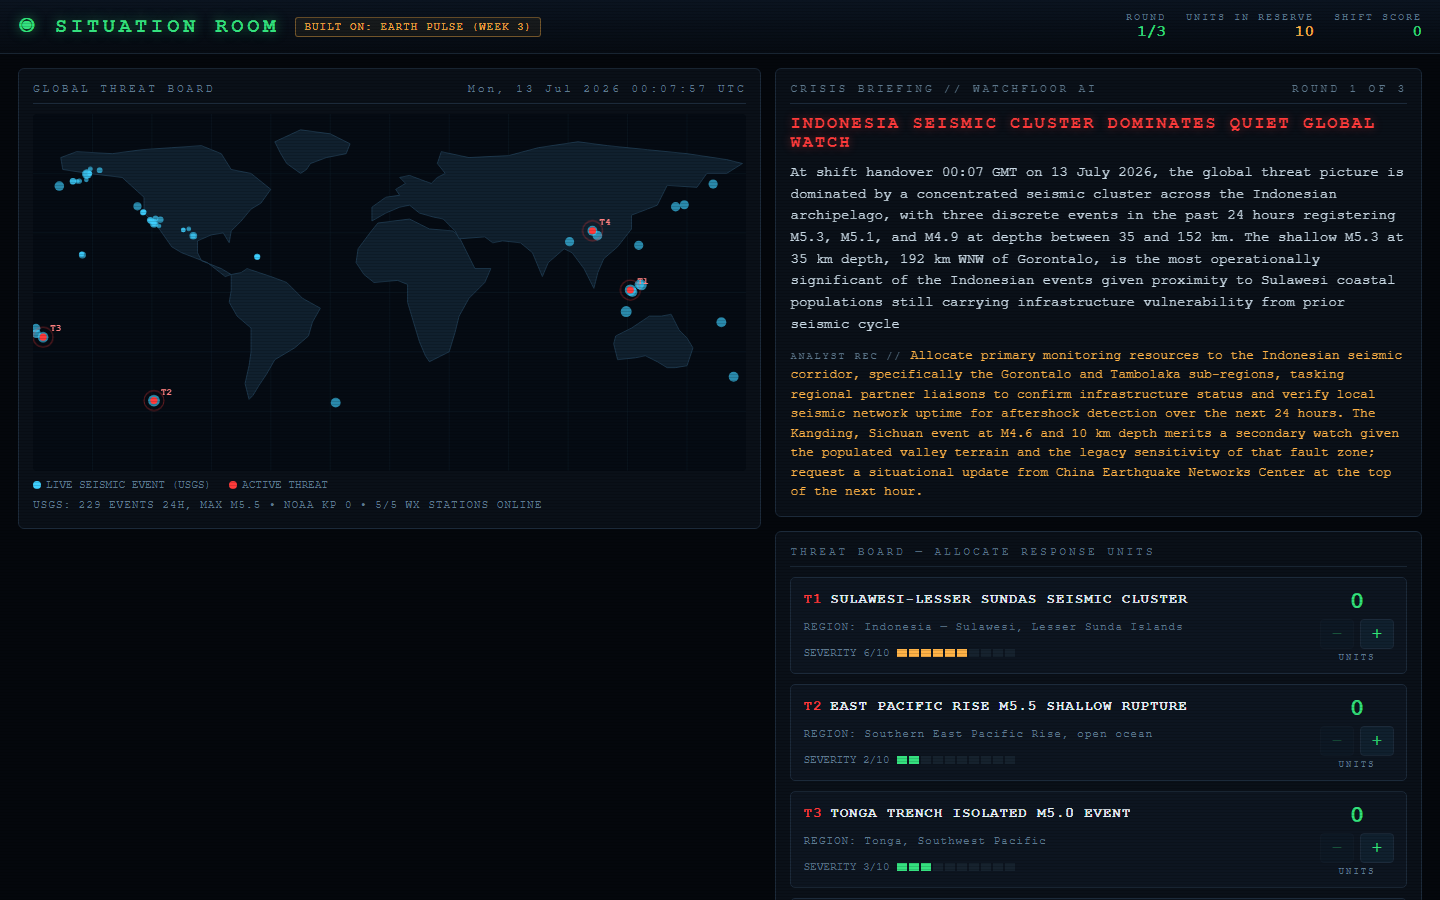
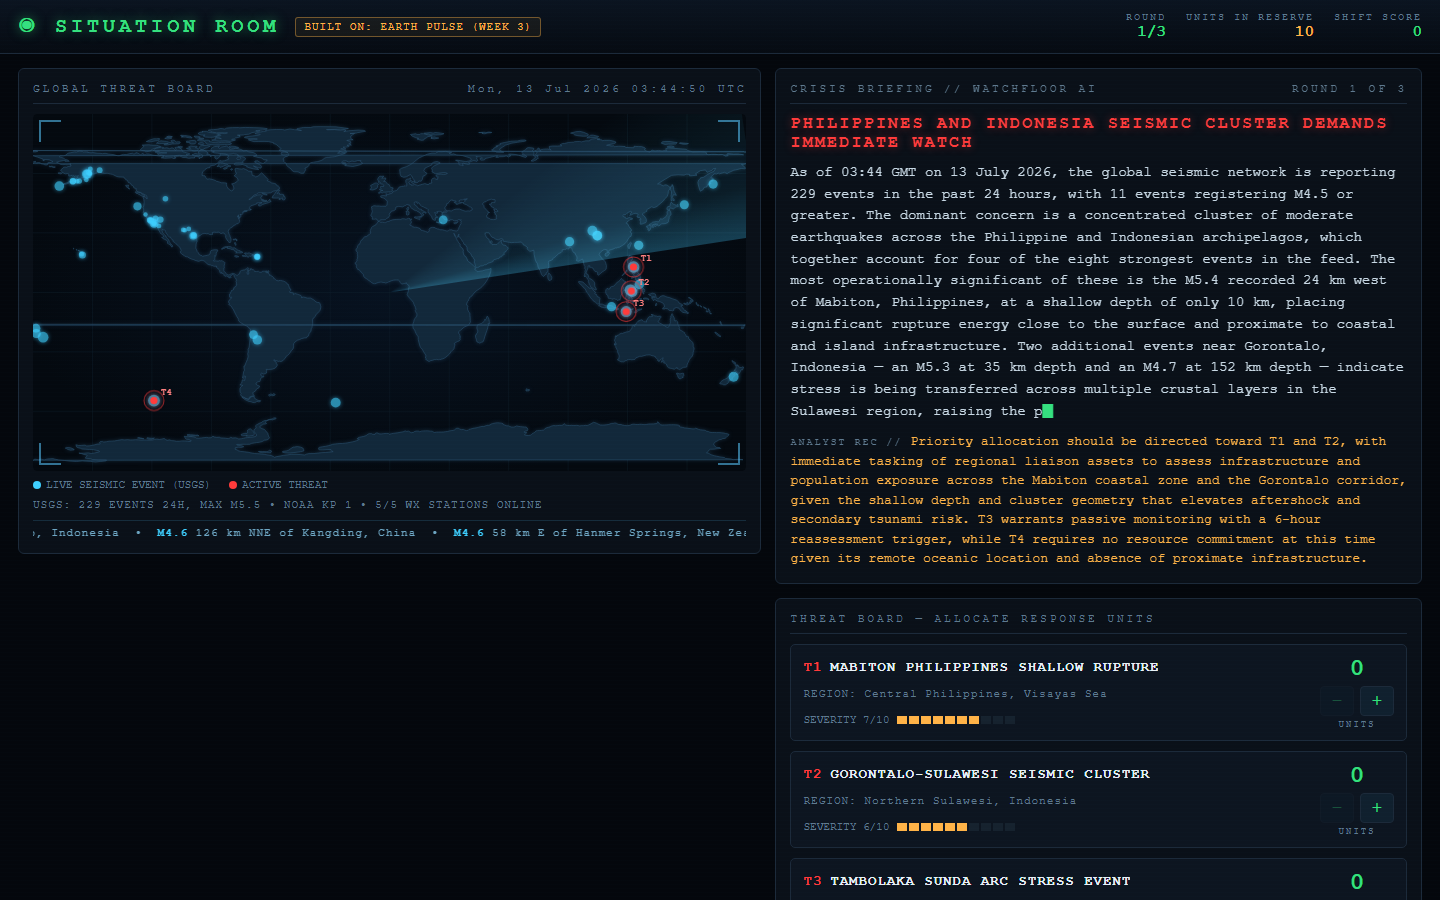
situation-room: war-room glow-up — real Natural Earth coastlines (inline TopoJSON decoder), radar sweep, HUD brackets, scanlines, glowing markers, live USGS wire ticker

diff --git a/projects/week-04-built-on-yesterday/demo-06-situation-room/index.html b/projects/week-04-built-on-yesterday/demo-06-situation-room/index.html
@@ -81,17 +81,54 @@
 
   /* ---------- map ---------- */
   #map-wrap { position: sticky; top: 14px; align-self: start; }
-  #worldmap { width: 100%; height: auto; display: block; background: #050b13; border-radius: 4px; }
-  .land { fill: #10202e; stroke: #24445c; stroke-width: 1; }
+  #map-stage { position: relative; overflow: hidden; border-radius: 4px; }
+  #worldmap { width: 100%; height: auto; display: block; background: radial-gradient(ellipse at center, #071220 0%, #04090f 75%); border-radius: 4px; }
+  .land { fill: #12283a; stroke: #2e5876; stroke-width: 0.7; filter: drop-shadow(0 0 3px rgba(70,140,190,0.25)); }
+
+  /* Rotating radar sweep */
+  #radar-sweep {
+    position: absolute; inset: -55%;
+    background: conic-gradient(from 0deg, transparent 0deg, transparent 330deg, rgba(64,200,255,0.10) 352deg, rgba(64,200,255,0.28) 360deg);
+    animation: sweep 9s linear infinite;
+    pointer-events: none;
+    mix-blend-mode: screen;
+  }
+  @keyframes sweep { to { transform: rotate(360deg); } }
+
+  /* HUD corner brackets */
+  .hud-corner { position: absolute; width: 22px; height: 22px; border: 2px solid rgba(90,200,255,0.55); pointer-events: none; }
+  .hud-corner.tl { top: 6px; left: 6px; border-right: none; border-bottom: none; }
+  .hud-corner.tr { top: 6px; right: 6px; border-left: none; border-bottom: none; }
+  .hud-corner.bl { bottom: 6px; left: 6px; border-right: none; border-top: none; }
+  .hud-corner.br { bottom: 6px; right: 6px; border-left: none; border-top: none; }
+
+  /* CRT scanlines over the whole floor */
+  body::after {
+    content: '';
+    position: fixed; inset: 0;
+    background: repeating-linear-gradient(0deg, transparent, transparent 3px, rgba(120,200,255,0.012) 3px, rgba(120,200,255,0.012) 4px);
+    pointer-events: none;
+    z-index: 999;
+  }
   .grid-line { stroke: #10202e; stroke-width: 0.6; }
-  .quake-dot { fill: var(--cyan); opacity: 0.65; }
-  .threat-marker { fill: var(--red); }
+  .quake-dot { fill: var(--cyan); opacity: 0.65; filter: drop-shadow(0 0 3px rgba(64,200,255,0.8)); }
+  .threat-marker { fill: var(--red); filter: drop-shadow(0 0 5px rgba(255,60,60,0.9)); }
   .threat-ring { fill: none; stroke: var(--red); stroke-width: 1.5; animation: ping 1.8s ease-out infinite; transform-origin: center; }
   @keyframes ping { 0% { opacity: 0.9; } 100% { opacity: 0; } }
   .threat-label { fill: #ff8080; font-size: 13px; font-family: inherit; font-weight: bold; }
   #map-legend { display: flex; gap: 18px; margin-top: 8px; font-size: 11px; color: var(--dim); }
   .leg-dot { display: inline-block; width: 8px; height: 8px; border-radius: 50%; margin-right: 5px; vertical-align: middle; }
   #feed-line { margin-top: 8px; font-size: 11px; color: var(--dim); letter-spacing: 1px; min-height: 15px; }
+
+  /* Live wire ticker: raw events scroll under the board */
+  #wire-ticker {
+    margin-top: 6px; overflow: hidden; white-space: nowrap;
+    border-top: 1px solid rgba(90,200,255,0.15);
+    padding-top: 6px; font-size: 11px; letter-spacing: 1px; color: #6fa8c5;
+  }
+  #wire-ticker .wire-inner { display: inline-block; padding-left: 100%; animation: wire 55s linear infinite; }
+  @keyframes wire { to { transform: translateX(-100%); } }
+  #wire-ticker .mag { color: var(--cyan); font-weight: bold; }
 
   /* ---------- briefing ---------- */
   #headline {
@@ -233,12 +270,18 @@
   <div id="map-wrap">
     <div class="panel">
       <div class="panel-title"><span>GLOBAL THREAT BOARD</span><span id="map-clock"></span></div>
-      <svg id="worldmap" viewBox="0 0 1000 500" preserveAspectRatio="xMidYMid meet"></svg>
+      <div id="map-stage">
+        <svg id="worldmap" viewBox="0 0 1000 500" preserveAspectRatio="xMidYMid meet"></svg>
+        <div id="radar-sweep"></div>
+        <span class="hud-corner tl"></span><span class="hud-corner tr"></span>
+        <span class="hud-corner bl"></span><span class="hud-corner br"></span>
+      </div>
       <div id="map-legend">
         <span><span class="leg-dot" style="background:var(--cyan)"></span>LIVE SEISMIC EVENT (USGS)</span>
         <span><span class="leg-dot" style="background:var(--red)"></span>ACTIVE THREAT</span>
       </div>
       <div id="feed-line"></div>
+      <div id="wire-ticker"><span class="wire-inner" id="wire-inner">AWAITING SEISMIC WIRE…</span></div>
     </div>
   </div>
 
@@ -363,17 +406,80 @@ function drawBaseMap() {
     const [, y] = proj(0, lat);
     svg.appendChild(el('line', { x1: 0, y1: y, x2: W, y2: y, class: 'grid-line' }));
   }
-  // continents
-  for (const poly of CONTINENTS) {
-    const pts = poly.map(([lon, lat]) => proj(lon, lat).map((n) => n.toFixed(1)).join(',')).join(' ');
-    svg.appendChild(el('polygon', { points: pts, class: 'land' }));
-  }
+  // land layer: real coastlines load async; coarse fallback drawn immediately
+  svg.appendChild(el('g', { id: 'land-layer' }));
+  drawFallbackLand();
+  loadRealLand();
   // marker layers
   svg.appendChild(el('g', { id: 'quake-layer' }));
   svg.appendChild(el('g', { id: 'threat-layer' }));
 }
 
+function drawFallbackLand() {
+  const layer = $('land-layer');
+  for (const poly of CONTINENTS) {
+    const pts = poly.map(([lon, lat]) => proj(lon, lat).map((n) => n.toFixed(1)).join(',')).join(' ');
+    layer.appendChild(el('polygon', { points: pts, class: 'land' }));
+  }
+}
+
+// Real Natural Earth coastlines (world-atlas TopoJSON) rendered through the
+// same equirectangular projection so live event plotting stays registered.
+async function loadRealLand() {
+  try {
+    const topo = await fetch('https://unpkg.com/world-atlas@2.0.2/land-110m.json').then(r => r.json());
+    const land = topo.objects.land;
+    // Minimal inline TopoJSON decoder (arcs → coordinates) — avoids a library
+    const tf = topo.transform;
+    const decodeArc = (arc) => {
+      let x = 0, y = 0;
+      return arc.map(([dx, dy]) => {
+        x += dx; y += dy;
+        return [x * tf.scale[0] + tf.translate[0], y * tf.scale[1] + tf.translate[1]];
+      });
+    };
+    const arcs = topo.arcs.map(decodeArc);
+    const ringCoords = (ring) => {
+      let out = [];
+      for (const idx of ring) {
+        let pts = idx >= 0 ? arcs[idx] : arcs[~idx].slice().reverse();
+        if (out.length) pts = pts.slice(1);
+        out = out.concat(pts);
+      }
+      return out;
+    };
+
+    let d = '';
+    const geoms = land.geometries || [land];
+    for (const g of geoms) {
+      const polys = g.type === 'Polygon' ? [g.arcs] : g.arcs; // MultiPolygon
+      for (const poly of polys) {
+        for (const ring of poly) {
+          const coords = ringCoords(ring);
+          d += coords.map(([lon, lat], i) => {
+            const [x, y] = proj(lon, lat);
+            return (i === 0 ? 'M' : 'L') + x.toFixed(1) + ',' + y.toFixed(1);
+          }).join('') + 'Z';
+        }
+      }
+    }
+    if (!d) return;
+    const layer = $('land-layer');
+    layer.textContent = '';
+    layer.appendChild(el('path', { d, class: 'land', 'fill-rule': 'evenodd' }));
+  } catch (_) { /* fallback blobs remain */ }
+}
+
 function plotQuakes(quakes) {
+  // Feed the live wire ticker with the strongest raw events
+  const wire = $('wire-inner');
+  if (wire && (quakes || []).length) {
+    const top = [...quakes].sort((a, b) => b.mag - a.mag).slice(0, 18);
+    wire.innerHTML = top.map(q =>
+      `<span class="mag">M${Number(q.mag).toFixed(1)}</span> ${String(q.place || 'unknown').replace(/[<>&]/g, '')}`
+    ).join(' &nbsp;&bull;&nbsp; ') + ' &nbsp;&bull;&nbsp; USGS LIVE WIRE — LAST 24H';
+  }
+
   const layer = $('quake-layer');
   layer.textContent = '';
   for (const q of quakes || []) {